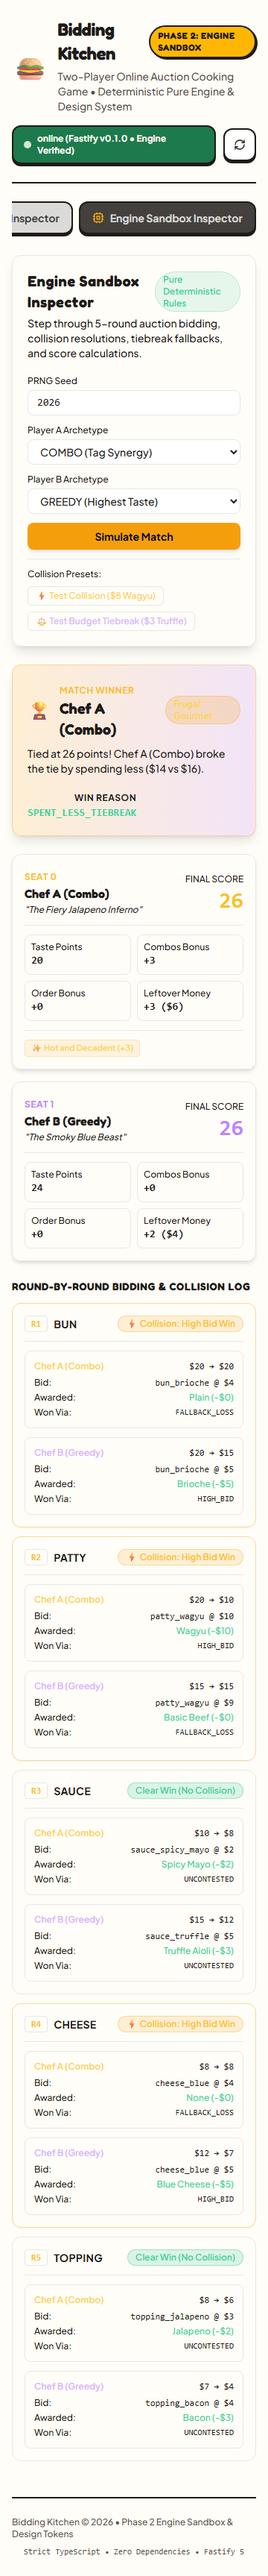
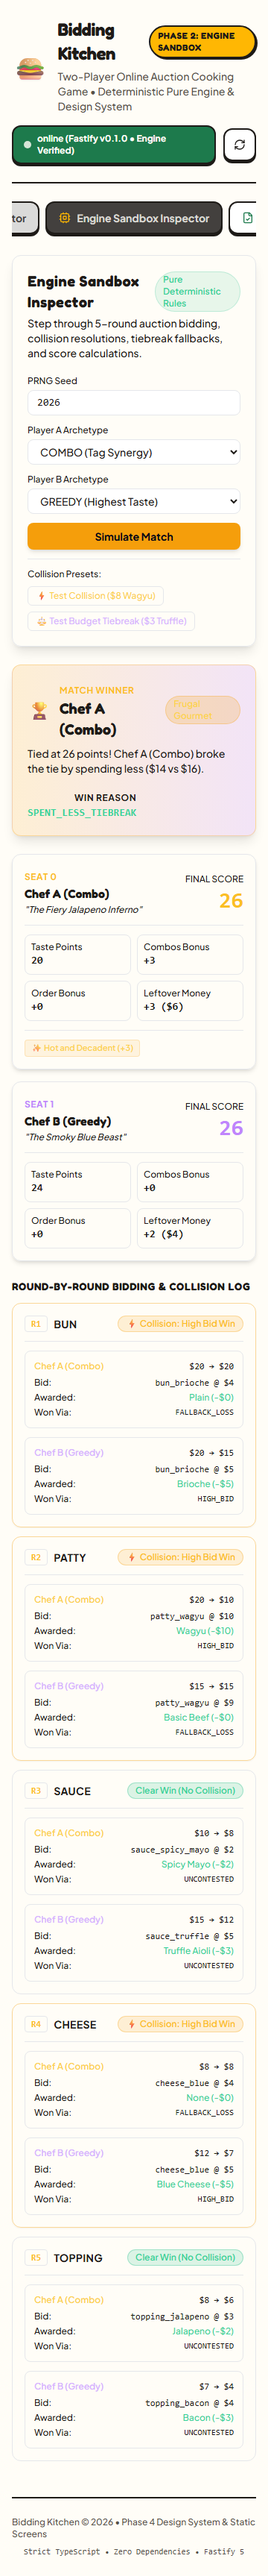
test(web): add unit tests, multi-viewport playwright harness, and 56 visual regression screenshots

Changed region(s): [[0.7944, 0.062, 0.9778, 0.0929], [0.1222, 0.062, 0.3056, 0.0929], [0.3361, 0.062, 0.3667, 0.0929]]

diff --git a/apps/web/test/screens.test.tsx b/apps/web/test/screens.test.tsx
@@ -1,0 +1,261 @@
+import { describe, it, expect, vi } from 'vitest';
+import { render, screen, fireEvent } from '@testing-library/react';
+import React from 'react';
+import { LandingScreen } from '../src/screens/LandingScreen.js';
+import { LobbyScreen } from '../src/screens/LobbyScreen.js';
+import { TutorialOverlay } from '../src/components/game/TutorialOverlay.js';
+import { AuctionRoundScreen } from '../src/screens/AuctionRoundScreen.js';
+import { FinalRevealScreen } from '../src/screens/FinalRevealScreen.js';
+import { PostMatchScreen } from '../src/screens/PostMatchScreen.js';
+import { ConnectionBanner } from '../src/components/layout/ConnectionBanner.js';
+import { ComboHintDrawer } from '../src/components/game/ComboHintDrawer.js';
+import { MOCK_HARNESS_STATES } from '../src/fixtures/mock-match-states.js';
+
+describe('Phase 4 Component & Screen Tests', () => {
+  // 1. LandingScreen Tests
+  describe('LandingScreen', () => {
+    it('validates nickname length and triggers onCreateRoom callback', () => {
+      const onCreateRoom = vi.fn();
+      render(<LandingScreen onCreateRoom={onCreateRoom} />);
+
+      const input = screen.getByTestId('nickname-input');
+      const createBtn = screen.getByTestId('create-room-btn');
+
+      // Invalid short nickname
+      fireEvent.change(input, { target: { value: 'A' } });
+      fireEvent.click(createBtn);
+      expect(screen.getByText(/at least 2 characters/i)).toBeInTheDocument();
+      expect(onCreateRoom).not.toHaveBeenCalled();
+
+      // Valid nickname
+      fireEvent.change(input, { target: { value: 'ChefNafiz' } });
+      fireEvent.click(createBtn);
+      expect(onCreateRoom).toHaveBeenCalledWith('ChefNafiz');
+    });
+
+    it('validates room code and triggers onJoinRoom callback', () => {
+      const onJoinRoom = vi.fn();
+      render(<LandingScreen onJoinRoom={onJoinRoom} />);
+
+      const codeInput = screen.getByTestId('join-code-input');
+      const joinBtn = screen.getByTestId('join-room-btn');
+
+      // Invalid short room code
+      fireEvent.change(codeInput, { target: { value: 'AB' } });
+      fireEvent.click(joinBtn);
+      expect(screen.getByText(/valid 4 to 6-character room code/i)).toBeInTheDocument();
+      expect(onJoinRoom).not.toHaveBeenCalled();
+
+      // Valid room code
+      fireEvent.change(codeInput, { target: { value: 'burg42' } });
+      fireEvent.click(joinBtn);
+      expect(onJoinRoom).toHaveBeenCalledWith('BURG42', 'ChefNafiz');
+    });
+  });
+
+  // 2. LobbyScreen Tests
+  describe('LobbyScreen', () => {
+    it('displays room code BURG42 and handles copy invite link', () => {
+      const match = MOCK_HARNESS_STATES.LOBBY_HOST.match!;
+      const onCopyInviteLink = vi.fn();
+      render(
+        <LobbyScreen
+          match={match}
+          myPlayerId="p1"
+          onCopyInviteLink={onCopyInviteLink}
+        />,
+      );
+
+      expect(screen.getByTestId('room-code-display')).toHaveTextContent('BURG42');
+      const copyBtn = screen.getByTestId('copy-link-btn');
+      fireEvent.click(copyBtn);
+      expect(onCopyInviteLink).toHaveBeenCalled();
+    });
+
+    it('handles onToggleReady when both players are seated', () => {
+      const match = MOCK_HARNESS_STATES.LOBBY_GUEST_READY.match!;
+      const onToggleReady = vi.fn();
+      render(
+        <LobbyScreen
+          match={match}
+          myPlayerId="p1"
+          onToggleReady={onToggleReady}
+        />,
+      );
+
+      const readyBtn = screen.getByTestId('lobby-ready-btn');
+      expect(readyBtn).not.toBeDisabled();
+      fireEvent.click(readyBtn);
+      expect(onToggleReady).toHaveBeenCalled();
+    });
+  });
+
+  // 3. TutorialOverlay Tests
+  describe('TutorialOverlay', () => {
+    it('steps 1 -> 2 -> 3 and clicking "Got It, Let\'s Cook!" invokes onComplete', () => {
+      const onComplete = vi.fn();
+      const onClose = vi.fn();
+      render(
+        <TutorialOverlay isOpen={true} onClose={onClose} onComplete={onComplete} />,
+      );
+
+      // Step 1
+      expect(screen.getByText('Secret Bidding & Collisions')).toBeInTheDocument();
+      const nextBtn = screen.getByTestId('tutorial-next-btn');
+
+      // Step 2
+      fireEvent.click(nextBtn);
+      expect(screen.getByText('Free $0 Basic Fallback')).toBeInTheDocument();
+
+      // Step 3
+      fireEvent.click(nextBtn);
+      expect(screen.getByText('Flavor Tag Combos')).toBeInTheDocument();
+      expect(screen.getByText("Got It, Let's Cook!")).toBeInTheDocument();
+
+      // Finish
+      fireEvent.click(nextBtn);
+      expect(onComplete).toHaveBeenCalled();
+      expect(onClose).toHaveBeenCalled();
+    });
+  });
+
+  // 4. AuctionRoundScreen Tests
+  describe('AuctionRoundScreen', () => {
+    it('manages variant selection, min/max bid bounds, basic fallback locking, and lock CTA', () => {
+      const match = MOCK_HARNESS_STATES.BIDDING_ACTIVE.match!;
+      const onLockBid = vi.fn();
+      render(
+        <AuctionRoundScreen
+          match={match}
+          myPlayerId="p1"
+          onLockBid={onLockBid}
+        />,
+      );
+
+      // Verify Wagyu card
+      const wagyuCard = screen.getByTestId('ingredient-card-street_patty_wagyu');
+      expect(wagyuCard).toBeInTheDocument();
+
+      // Select Wagyu (basePrice: 8, budget: 16)
+      fireEvent.click(wagyuCard);
+      expect(screen.getByTestId('bid-amount-display')).toHaveTextContent('$8');
+
+      // Increment bid
+      const incBtn = screen.getByTestId('bid-increment-btn');
+      fireEvent.click(incBtn);
+      expect(screen.getByTestId('bid-amount-display')).toHaveTextContent('$9');
+
+      // Decrement bid back to 8
+      const decBtn = screen.getByTestId('bid-decrement-btn');
+      fireEvent.click(decBtn);
+      expect(screen.getByTestId('bid-amount-display')).toHaveTextContent('$8');
+
+      // Cannot decrement below base price ($8)
+      expect(decBtn).toBeDisabled();
+
+      // Select Basic Beef ($0)
+      const basicCard = screen.getByTestId('ingredient-card-street_patty_basic');
+      fireEvent.click(basicCard);
+      expect(screen.getByTestId('bid-amount-display')).toHaveTextContent('$0');
+
+      // Select Wagyu again, increment to $9 and lock
+      fireEvent.click(wagyuCard);
+      fireEvent.click(incBtn); // now $9
+      const lockBtn = screen.getByTestId('lock-bid-btn');
+      fireEvent.click(lockBtn);
+      expect(onLockBid).toHaveBeenCalledWith('street_patty_wagyu', 9);
+    });
+
+    it('disables ingredients exceeding remaining budget', () => {
+      // Create a match where player only has $3 left (Wagyu is $8, Chicken is $4, Smash is $5)
+      const baseMatch = MOCK_HARNESS_STATES.BIDDING_ACTIVE.match!;
+      const lowBudgetMatch = {
+        ...baseMatch,
+        players: [
+          { ...baseMatch.players[0]!, budget: 3 },
+          baseMatch.players[1]!,
+        ] as [typeof baseMatch.players[0], typeof baseMatch.players[1]],
+      };
+
+      render(
+        <AuctionRoundScreen
+          match={lowBudgetMatch}
+          myPlayerId="p1"
+        />,
+      );
+
+      const wagyuCard = screen.getByTestId('ingredient-card-street_patty_wagyu');
+      expect(wagyuCard).toHaveAttribute('aria-disabled', 'true');
+    });
+  });
+
+  // 5. FinalRevealScreen & PostMatchScreen Tests
+  describe('FinalRevealScreen & PostMatchScreen', () => {
+    it('renders both player dishes, winner celebration, score tally, and proceed CTA', () => {
+      const match = MOCK_HARNESS_STATES.FINAL_REVEAL.match!;
+      const onProceed = vi.fn();
+      render(
+        <FinalRevealScreen
+          match={match}
+          myPlayerId="p1"
+          onProceed={onProceed}
+        />,
+      );
+
+      expect(screen.getByText(/ChefMaya Wins the Match!/i)).toBeInTheDocument();
+      expect(screen.getByText(/The Grand Tasting/i)).toBeInTheDocument();
+      expect(screen.getByText(/Score Breakdown/i)).toBeInTheDocument();
+
+      const proceedBtn = screen.getByTestId('proceed-post-match-btn');
+      fireEvent.click(proceedBtn);
+      expect(onProceed).toHaveBeenCalled();
+    });
+
+    it('renders post match bid history, key moment badge, and rematch action', () => {
+      const match = MOCK_HARNESS_STATES.POST_MATCH.match!;
+      const onRequestRematch = vi.fn();
+      render(
+        <PostMatchScreen
+          match={match}
+          myPlayerId="p1"
+          onRequestRematch={onRequestRematch}
+        />,
+      );
+
+      expect(screen.getByTestId('key-moment-badge')).toBeInTheDocument();
+      expect(screen.getByTestId('bid-history-table')).toBeInTheDocument();
+
+      const rematchBtn = screen.getByTestId('rematch-btn');
+      fireEvent.click(rematchBtn);
+      expect(onRequestRematch).toHaveBeenCalled();
+    });
+  });
+
+  // 6. ConnectionBanner & ComboHintDrawer Tests
+  describe('ConnectionBanner & ComboHintDrawer', () => {
+    it('displays reconnect countdown banner when opponent is disconnected', () => {
+      render(
+        <ConnectionBanner
+          opponentDisconnected={true}
+          countdownSeconds={28}
+        />,
+      );
+
+      expect(screen.getByTestId('connection-banner')).toHaveTextContent(/28s remaining/i);
+    });
+
+    it('opens ComboHintDrawer and renders all combo recipes', () => {
+      const onClose = vi.fn();
+      render(<ComboHintDrawer isOpen={true} onClose={onClose} />);
+
+      expect(screen.getByTestId('combo-hint-drawer')).toBeInTheDocument();
+      expect(screen.getByTestId('combo-card-SMOKEHOUSE')).toBeInTheDocument();
+      expect(screen.getByTestId('combo-card-HOT_AND_DECADENT')).toBeInTheDocument();
+      expect(screen.getByTestId('combo-card-CHEFS_PRIDE')).toBeInTheDocument();
+
+      const closeBtn = screen.getByTestId('combo-drawer-close-btn');
+      fireEvent.click(closeBtn);
+      expect(onClose).toHaveBeenCalled();
+    });
+  });
+});

diff --git a/apps/web/e2e/static-screens.spec.ts b/apps/web/e2e/static-screens.spec.ts
@@ -1,0 +1,132 @@
+import { test, expect } from '@playwright/test';
+import fs from 'node:fs';
+import path from 'node:path';
+import { fileURLToPath } from 'node:url';
+
+const __filename = fileURLToPath(import.meta.url);
+const __dirname = path.dirname(__filename);
+
+const screenshotDir = path.resolve(__dirname, '../../../docs/visual-qa/screenshots/phase-4');
+const artifactDir = path.resolve('C:/Users/USER/.gemini/antigravity/brain/b64b01dc-0723-4625-b7e5-1195aa1629f1/screenshots/phase-4');
+
+test.beforeAll(async () => {
+  if (!fs.existsSync(screenshotDir)) {
+    fs.mkdirSync(screenshotDir, { recursive: true });
+  }
+  if (!fs.existsSync(artifactDir)) {
+    fs.mkdirSync(artifactDir, { recursive: true });
+  }
+});
+
+const VIEWPORTS = [
+  { name: 'mobile-sm', width: 360, height: 640 },
+  { name: 'mobile-md', width: 390, height: 844 },
+  { name: 'tablet', width: 768, height: 1024 },
+  { name: 'desktop', width: 1280, height: 800 },
+];
+
+const HARNESS_STATES = [
+  'LANDING',
+  'LOBBY_HOST',
+  'LOBBY_GUEST_READY',
+  'TIER_CONFIRMED_COUNTDOWN',
+  'MATCH_INTRO',
+  'TUTORIAL_OVERLAY',
+  'BIDDING_ACTIVE',
+  'BIDDING_LOCKED_WAITING',
+  'ROUND_RESOLVE_COLLISION',
+  'ROUND_END_BREATHER',
+  'FINAL_REVEAL',
+  'POST_MATCH',
+  'OPPONENT_DISCONNECTED',
+  'ERROR_EMPTY_STATE',
+];
+
+test.describe('Phase 4 Static Screens Visual QA & Invariant Assertions', () => {
+  test.setTimeout(45_000);
+
+  for (const vp of VIEWPORTS) {
+    for (const stateKey of HARNESS_STATES) {
+      test(`renders ${stateKey} at ${vp.width}x${vp.height} (${vp.name}), verifies invariants & captures screenshot`, async ({
+        page,
+      }) => {
+        await page.setViewportSize({ width: vp.width, height: vp.height });
+        await page.goto(`/?harness=true&state=${stateKey}&hideBar=true&reducedMotion=true`);
+
+        // Wait for network idle and fonts
+        await page.waitForLoadState('domcontentloaded');
+        await page.evaluate(() => document.fonts.ready);
+
+        // Assert Invariant 1: Zero Horizontal Overflow
+        const isOverflowing = await page.evaluate(() => {
+          return document.documentElement.scrollWidth > window.innerWidth;
+        });
+        expect(isOverflowing).toBe(false);
+
+        // Assert Invariant 2: Minimum Touch Targets on interactive buttons
+        const buttons = page.locator('button:visible');
+        const count = await buttons.count();
+        for (let i = 0; i < count; i++) {
+          const btn = buttons.nth(i);
+          const box = await btn.boundingBox();
+          if (box && box.width > 0 && box.height > 0) {
+            // Check button touch target minimums (accounting for tiny 1px subpixel rounding)
+            expect(
+              box.width,
+              `Button #${i} width ${box.width}px should be >= 40px`,
+            ).toBeGreaterThanOrEqual(39.5);
+            expect(
+              box.height,
+              `Button #${i} height ${box.height}px should be >= 40px`,
+            ).toBeGreaterThanOrEqual(39.5);
+          }
+        }
+
+        // Assert Invariant 3: One-thumb reachability for Lock Bid button on mobile-md (390x844)
+        if (stateKey === 'BIDDING_ACTIVE' && vp.name === 'mobile-md') {
+          const lockBtn = page.getByTestId('lock-bid-btn');
+          await expect(lockBtn).toBeVisible();
+          const box = await lockBtn.boundingBox();
+          expect(box).not.toBeNull();
+          if (box) {
+            // Verify lock button is in the lower thumb zone and fits within the 844px height
+            expect(box.y + box.height).toBeLessThanOrEqual(844);
+          }
+        }
+
+        // Assert Invariant 4: Zero Cumulative Layout Shift (CLS) on variant selection
+        if (stateKey === 'BIDDING_ACTIVE') {
+          const lockBtn = page.getByTestId('lock-bid-btn');
+          const boxBefore = await lockBtn.boundingBox();
+          const scrollBefore = await page.evaluate(() => window.scrollY);
+
+          // Select Wagyu via dispatchEvent to prevent synthetic browser auto-scrolling
+          const wagyuCard = page.getByTestId('ingredient-card-street_patty_wagyu');
+          if (await wagyuCard.isVisible()) {
+            await wagyuCard.dispatchEvent('click');
+            const boxAfter = await lockBtn.boundingBox();
+            const scrollAfter = await page.evaluate(() => window.scrollY);
+
+            const docYBefore = (boxBefore?.y ?? 0) + scrollBefore;
+            const docYAfter = (boxAfter?.y ?? 0) + scrollAfter;
+
+            expect(Math.abs(docYBefore - docYAfter)).toBeLessThanOrEqual(2);
+          }
+        }
+
+        // Capture deterministic screenshot
+        const filename = `${stateKey.toLowerCase()}-${vp.name}.png`;
+        const filePath = path.join(screenshotDir, filename);
+        await page.screenshot({ path: filePath, fullPage: false });
+
+        // Copy to brain artifacts directory for embedding
+        try {
+          const artifactPath = path.join(artifactDir, filename);
+          fs.copyFileSync(filePath, artifactPath);
+        } catch {
+          // Ignore copy failures
+        }
+      });
+    }
+  }
+});
